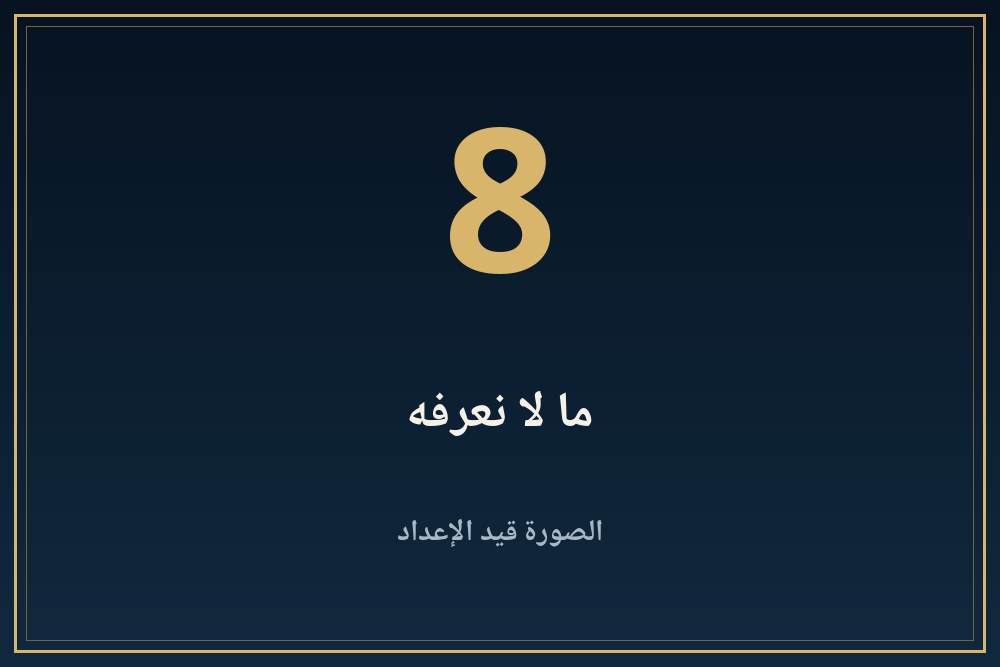
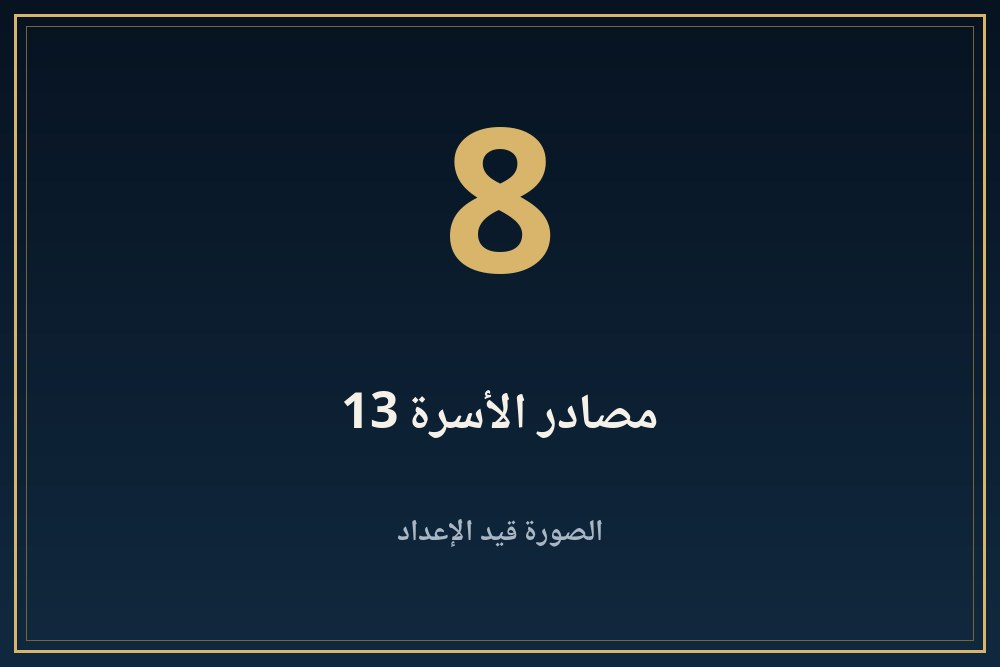
King card 52 folder 101: updated JSON

Changed region(s): [[0.341, 0.5697, 0.651, 0.6597]]

diff --git a/kings/101-swbk-htb-alawl-skhm-ra-khwtawy/index.html b/kings/101-swbk-htb-alawl-skhm-ra-khwtawy/index.html
@@ -320,11 +320,11 @@ html[dir=ltr] #panav.open,#pash[dir=ltr] #panav.open{border-right:0!important;bo
 .abt li{display:grid;grid-template-columns:62px 1fr;gap:10px;align-items:baseline;font-size:14px;line-height:1.85;color:#d6dee8}
 .abt li b{color:#d8b56b;font-size:13px;font-weight:700}
 @media(max-width:520px){.abt li{grid-template-columns:1fr;gap:0}.abt li b{margin-bottom:0}}</style><style id="back-ctl">.back-controls{z-index:80}.back-controls{position:fixed;bottom:18px;left:18px;z-index:30;display:flex;flex-direction:row;align-items:center;gap:8px;direction:ltr}.back-top{position:static;background:#d8b56b;color:#091725;border:1px solid rgba(240,215,157,.65);border-radius:50%;width:36px;height:36px;min-width:36px;padding:0;font-size:18px;line-height:1;cursor:pointer;box-shadow:0 5px 16px #0005;display:none;align-items:center;justify-content:center}.back-top.visible{display:flex}.back-top:hover{background:#f0d79d;transform:translateY(-1px)}@media(max-width:600px){.back-controls{bottom:12px;left:12px;gap:6px}.back-top{width:34px;height:34px;min-width:34px;font-size:17px}}.back-controls{display:flex;flex-direction:row;align-items:center;justify-content:center;gap:7px;direction:ltr}.back-top{width:32px;height:32px;min-width:32px;font-size:16px;background:#d8b56b;color:#091725;border:1px solid #f0d79d;box-shadow:0 4px 12px #0005}@media(max-width:600px){.back-controls{left:12px;bottom:12px;gap:6px}.back-top{width:31px;height:31px;min-width:31px;font-size:15px}}</style><style id="herodesk">@media(min-width:768px){header.hero{display:block!important}header.hero .hero-img{display:block!important;margin:0 auto 28px!important;max-width:460px!important;width:100%!important}header.hero .hero-img img{width:100%!important;height:auto!important;border-radius:18px}header.hero .hero-txt{margin-top:0!important}}</style><style id="urlwrap">.acc .body,.acc .body p,.acc .body li,.acc .body a,.acc .body ol,.acc .body ul{overflow-wrap:anywhere;word-break:break-word;min-width:0;max-width:100%}.acc .body a{display:inline;unicode-bidi:plaintext}</style></head><div class="pa-topline"></div><div id="pash"><div class="pa-nav"><a aria-label="بر عنخ الرئيسية" class="pa-brand" href="/"><span class="pa-mark"><span>𓂀</span></span><span class="pa-name">PER ANKH<small>بيت الحياة · HOUSE OF LIFE</small></span></a><nav aria-label="التنقل الرئيسي في الموقع" id="panav"><a href="/#home" data-ar="الرئيسية" data-en="Home">الرئيسية</a><a href="/#discover" data-ar="الأقسام الرئيسية" data-en="Main sections">الأقسام الرئيسية</a><a href="/#kings-details" data-ar="الملوك" data-en="Kings">الملوك</a><a href="/#religion-details" data-ar="الديانة" data-en="Religion">الديانة</a><a href="/#timeline-details" data-ar="العصور والأسرات" data-en="Eras &amp; dynasties">العصور والأسرات</a><a href="/#sites-details" data-ar="المواقع الأثرية" data-en="Archaeological sites">المواقع الأثرية</a><a href="/#library-details" data-ar="المكتبة" data-en="Library">المكتبة</a><a href="/#learning-details" data-ar="التعلم والاختبار" data-en="Learning &amp; quiz">التعلم والاختبار</a><a href="/#about" data-ar="المؤسس" data-en="Founder">المؤسس</a><a class="nav-extra" href="/#architecture-details" data-ar="العمارة والفنون" data-en="Architecture &amp; art">العمارة والفنون</a><a class="nav-extra" href="/#daily-life-details" data-ar="الحياة اليومية" data-en="Daily life">الحياة اليومية</a><a class="nav-extra" href="/#virtual-museum" data-ar="المتحف الافتراضي" data-en="Virtual museum">المتحف الافتراضي</a><a class="nav-extra" href="/#digital-lab" data-ar="معمل الآثار الرقمي" data-en="Digital archaeology lab">معمل الآثار الرقمي</a><a class="nav-extra" href="/#academy-details" data-ar="أكاديمية بر عنخ" data-en="Per Ankh academy">أكاديمية بر عنخ</a><a class="nav-extra" href="/#references-details" data-ar="المراجع والمصادر" data-en="References &amp; sources">المراجع والمصادر</a><a class="nav-extra" href="/#library-expanded" data-ar="المكتبة الأثرية" data-en="Archaeological library">المكتبة الأثرية</a><a class="nav-extra" href="/#interactive-lab" data-ar="مختبر الحضارة التفاعلي" data-en="Interactive lab">مختبر الحضارة التفاعلي</a><a class="nav-extra" href="/#atlas-explorer" data-ar="الأطلس الأثري" data-en="Archaeological atlas">الأطلس الأثري</a><a class="nav-extra" href="/#photo-gallery" data-ar="معرض الصور الأثري" data-en="Photo gallery">معرض الصور الأثري</a><a class="nav-extra" href="/#community-hub" data-ar="مجتمع بر عنخ" data-en="Community">مجتمع بر عنخ</a></nav><div class="pa-act"><button class="pa-lang" id="paLang" type="button">EN</button><a class="pa-acc" id="paAcc" href="/?account=1" data-ar="حسابي" data-en="Account" aria-label="فتح حساب المستخدم">حسابي</a><button class="pa-menu" id="paMenu" type="button" aria-controls="panav" aria-expanded="false" aria-haspopup="true" aria-label="فتح قائمة أقسام الموقع">☰</button></div></div></div><main class="wrap"><nav class="pa-crumb" id="paCrumb" aria-label="مسار الصفحة"><a href="/" data-ar="الرئيسية" data-en="Home">الرئيسية</a><i aria-hidden="true">‹</i><a href="/#kings-details" data-ar="ملوك مصر القديمة" data-en="Ancient Egyptian Kings">ملوك مصر القديمة</a><i aria-hidden="true">‹</i><span aria-current="page" data-ar="سوبك حتب الأول (سخم رع خوتاوي)" data-en="Sobekhotep I">سوبك حتب الأول (سخم رع خوتاوي)</span></nav><p class="pa-ennote" id="paNote" hidden>The Sobekhotep I article below is in Arabic. An English translation has not been prepared yet.</p><article><header class="hero"><i class="deco l"></i><i class="deco r"></i><div class="hero-img"><img src="banners/cover_b.jpg?v=3" alt="سوبك حتب الأول (سخم رع خوتاوي)" width="900" height="1200" fetchpriority="high"></div>
-<div class="hero-txt"><div class="eyebrow" aria-hidden="true"></div><h1>سوبك حتب الأول (سخم رع خوتاوي)</h1><p class="sub">من أوائل ملوك الأسرة الثالثة عشرة؛ ترتبط به شواهد من اللاهون ومدامود وسمنة وكومة</p></div></header><div class="tools"><button id="all" type="button"><svg viewBox="0 0 24 24" width="24" height="24" fill="none" stroke="currentColor" stroke-width="2.4" stroke-linecap="round" stroke-linejoin="round" aria-hidden="true"><path d="M6 6l6 6 6-6M6 13l6 6 6-6"/></svg><span>فتح الكل</span></button><button id="none" type="button"><svg viewBox="0 0 24 24" width="24" height="24" fill="none" stroke="currentColor" stroke-width="2" stroke-linejoin="round" stroke-linecap="round" aria-hidden="true"><rect x="3" y="4" width="18" height="16" rx="2"/><circle cx="9" cy="9.5" r="1.6" fill="currentColor"/><path d="M3.5 18l5.5-5.5 4 4 3-3 4.5 4.5"/></svg><span>إغلاق الكل</span></button></div><div class="legend" role="note"><b>دليل العلامات في الصفحة</b>
+<div class="hero-txt"><div class="eyebrow" aria-hidden="true"></div><h1>سوبك حتب الأول (سخم رع خوتاوي)</h1><p class="sub">أمنمحات سبك حتب: بداية غامضة بعد الملكة</p></div></header><div class="tools"><button id="all" type="button"><svg viewBox="0 0 24 24" width="24" height="24" fill="none" stroke="currentColor" stroke-width="2.4" stroke-linecap="round" stroke-linejoin="round" aria-hidden="true"><path d="M6 6l6 6 6-6M6 13l6 6 6-6"/></svg><span>فتح الكل</span></button><button id="none" type="button"><svg viewBox="0 0 24 24" width="24" height="24" fill="none" stroke="currentColor" stroke-width="2" stroke-linejoin="round" stroke-linecap="round" aria-hidden="true"><rect x="3" y="4" width="18" height="16" rx="2"/><circle cx="9" cy="9.5" r="1.6" fill="currentColor"/><path d="M3.5 18l5.5-5.5 4 4 3-3 4.5 4.5"/></svg><span>إغلاق الكل</span></button></div><div class="legend" role="note"><b>دليل العلامات في الصفحة</b>
 <div class="row"><span class="bdg v">موثّق</span><span>مذكور في مصدر مرقّم يمكن فتحه من قسم المراجع.</span></div>
 <div class="row"><span class="bdg d">محل خلاف</span><span>الصفحة نفسها تذكر أن الباحثين أو المصادر مختلفون فيه.</span></div>
 <div class="row"><span class="bdg u">لم يُتحقق منه</span><span>الصفحة تذكر أنه من مصدر واحد ولم يُتحقق منه في مصدر ثانٍ.</span></div></div>
-<div class="band" aria-hidden="true"></div><details class="acc k1" id="s1"><summary><img class="bnr" src="banners/b01.jpg?v=1" alt="" width="1000" height="667"><span class="n">1</span><span class="t">من هو؟</span><span class="ch"></span></summary><div class="body"><button class="lbtn" type="button" disabled aria-disabled="true" style="opacity:.55;cursor:default"><svg viewBox="0 0 24 24" fill="currentColor" aria-hidden="true"><path d="M7 4.5v15a1 1 0 001.5.86l12-7.5a1 1 0 000-1.72l-12-7.5A1 1 0 007 4.5z"/></svg><span>التعليق الصوتي قريبًا</span></button><p><span class="bdg v">موثّق</span> يسميه سليم حسن (ج4 ص27) «سخم رع خوتاوي-أمنمحات سبك حتب»، ويقول (ص23، 27) إن آخر ملوك الأسرة الثانية عشرة هي الملكة «سبك نفرو رع» وإن نسل الأسرة انقطع بانتهاء حكمها.<sup><a href="#r1">[1]</a></sup></p></div></details><details class="acc k2" id="s2"><summary><img class="bnr" src="banners/b02.jpg?v=1" alt="" loading="lazy" width="1000" height="667"><span class="n">2</span><span class="t">هل هو أول ملوك الأسرة؟</span><span class="ch"></span></summary><div class="body"><button class="lbtn" type="button" disabled aria-disabled="true" style="opacity:.55;cursor:default"><svg viewBox="0 0 24 24" fill="currentColor" aria-hidden="true"><path d="M7 4.5v15a1 1 0 001.5.86l12-7.5a1 1 0 000-1.72l-12-7.5A1 1 0 007 4.5z"/></svg><span>التعليق الصوتي قريبًا</span></button><p><span class="bdg d">محل خلاف</span> يقول سليم (ص27 هامش 1) إن الرأي السائد بين المؤرخين بقي أن «رع خوتاوي وجاف» هو أول ملوك الأسرة الثالثة عشرة، إلى أن كشفت حفائر المدامود أحجارا باسم أمنمحات سبك حتب، فأعاد الأستاذ ويل بحث ترتيب الأسرة (مجلة 1929). ويعامل سليم الملكين بقسمين مستقلين.<sup><a href="#r1">[1]</a></sup></p></div></details><details class="acc k3" id="s3"><summary><img class="bnr" src="banners/b03.jpg?v=1" alt="" loading="lazy" width="1000" height="667"><span class="n">3</span><span class="t">صلته بالملكة سبك نفرو رع</span><span class="ch"></span></summary><div class="body"><button class="lbtn" type="button" disabled aria-disabled="true" style="opacity:.55;cursor:default"><svg viewBox="0 0 24 24" fill="currentColor" aria-hidden="true"><path d="M7 4.5v15a1 1 0 001.5.86l12-7.5a1 1 0 000-1.72l-12-7.5A1 1 0 007 4.5z"/></svg><span>التعليق الصوتي قريبًا</span></button><p><span class="bdg d">محل خلاف</span> يقول سليم (ص27) إن بعض المؤرخين يظنون أنه تزوج الملكة فصار ملكا شرعيا، ثم يقول «ليس لدينا ما يدعم ذلك الزعم»، ويرى أنه «من الجائز» أنه اغتصب الملك، وأنه انتحل اسم «أمنمحات سبك حتب» تيمنا بملوك الأسرة الثانية عشرة ليخفي اغتصابه. فهذا تأويل سليم وليس نصا قديما.<sup><a href="#r1">[1]</a></sup></p></div></details><details class="acc k4" id="s4"><summary><img class="bnr" src="banners/b04.jpg?v=1" alt="" loading="lazy" width="1000" height="667"><span class="n">4</span><span class="t">مدة الحكم وسعة النفوذ</span><span class="ch"></span></summary><div class="body"><button class="lbtn" type="button" disabled aria-disabled="true" style="opacity:.55;cursor:default"><svg viewBox="0 0 24 24" fill="currentColor" aria-hidden="true"><path d="M7 4.5v15a1 1 0 001.5.86l12-7.5a1 1 0 000-1.72l-12-7.5A1 1 0 007 4.5z"/></svg><span>التعليق الصوتي قريبًا</span></button><p><span class="bdg v">موثّق</span> يقول سليم (ص27) إنه حكم «ما لا يقل عن أربع سنوات» وخلف آثارا عدة في طول البلاد وعرضها، مما يدل عنده على أنه كان مسيطرا على القطر كله.<sup><a href="#r1">[1]</a></sup></p></div></details><details class="acc k1" id="s5"><summary><img class="bnr" src="banners/b05.jpg?v=1" alt="" loading="lazy" width="1000" height="667"><span class="n">5</span><span class="t">الحدود الجنوبية</span><span class="ch"></span></summary><div class="body"><button class="lbtn" type="button" disabled aria-disabled="true" style="opacity:.55;cursor:default"><svg viewBox="0 0 24 24" fill="currentColor" aria-hidden="true"><path d="M7 4.5v15a1 1 0 001.5.86l12-7.5a1 1 0 000-1.72l-12-7.5A1 1 0 007 4.5z"/></svg><span>التعليق الصوتي قريبًا</span></button><p><span class="bdg v">موثّق</span> ينقل سليم (ص28) عن جرفث أنه كان يسيطر على الدولة التي أقامها سنوسرت الثالث من الدلتا حتى قلعة سمنة. ويقول إنه عثر له على تمثال في سمنة وآخر في كرمة، وإنه استمر في تدوين مقاييس النيل في السنوات الأربع الأولى من حكمه في قمة وسمنة.<sup><a href="#r1">[1]</a></sup></p></div></details><details class="acc k2" id="s6"><summary><img class="bnr" src="banners/b06.jpg?v=1" alt="" loading="lazy" width="1000" height="667"><span class="n">6</span><span class="t">آثاره</span><span class="ch"></span></summary><div class="body"><button class="lbtn" type="button" disabled aria-disabled="true" style="opacity:.55;cursor:default"><svg viewBox="0 0 24 24" fill="currentColor" aria-hidden="true"><path d="M7 4.5v15a1 1 0 001.5.86l12-7.5a1 1 0 000-1.72l-12-7.5A1 1 0 007 4.5z"/></svg><span>التعليق الصوتي قريبًا</span></button><p><span class="bdg v">موثّق</span> يذكر سليم (ص28) حجرا منقوشا باسمه في الدير البحري يظن أنه من عتب باب، وأجزاء مقاصير في المدامود، وجزءا من بوابة في تل بسطة، وأسطوانات في المتحف البريطاني واللوفر. ويقول إن بردية في كاهون (قرب الفيوم) دونت فيها قائمة أسرة كبيرة وذكرت السنة الأولى والثانية من حكمه، وأشارت إلى تعداد سابق في السنة الأربعين من حكم أمنمحات الثالث.<sup><a href="#r1">[1]</a></sup></p></div></details><details class="acc k3" id="s7"><summary><img class="bnr" src="banners/b07.jpg?v=1" alt="" loading="lazy" width="1000" height="667"><span class="n">7</span><span class="t">بوادر الانحلال</span><span class="ch"></span></summary><div class="body"><button class="lbtn" type="button" disabled aria-disabled="true" style="opacity:.55;cursor:default"><svg viewBox="0 0 24 24" fill="currentColor" aria-hidden="true"><path d="M7 4.5v15a1 1 0 001.5.86l12-7.5a1 1 0 000-1.72l-12-7.5A1 1 0 007 4.5z"/></svg><span>التعليق الصوتي قريبًا</span></button><p><span class="bdg d">محل خلاف</span> يقول سليم (ص30) إن بوادر الانحلال ظهرت في نهاية حكمه وفي حكم خلفائه، فقد انقطع تدوين مقاييس النيل بعد السنة الرابعة من حكمه وانقطعت قوائم التعداد في كاهون في عهد خلفه، وتوالت الملوك بسرعة. هذه قراءة سليم لما بقي من الآثار.<sup><a href="#r1">[1]</a></sup></p></div></details><details class="acc k4" id="s8"><summary><img class="bnr" src="banners/b08.jpg?v=1" alt="" loading="lazy" width="1000" height="667"><span class="n">8</span><span class="t">ما لا نعرفه</span><span class="ch"></span></summary><div class="body"><button class="lbtn" type="button" disabled aria-disabled="true" style="opacity:.55;cursor:default"><svg viewBox="0 0 24 24" fill="currentColor" aria-hidden="true"><path d="M7 4.5v15a1 1 0 001.5.86l12-7.5a1 1 0 000-1.72l-12-7.5A1 1 0 007 4.5z"/></svg><span>التعليق الصوتي قريبًا</span></button><p><span class="bdg u">لم يُتحقق منه</span> لا نقرأ في مقتطفنا اسم أبيه أو زوجته أو قبره، ولا نعرف هل كان للملكة سبك نفرو رع صلة به. ولا نعرف سنة جلوسه، وسليم نفسه يشير إلى أن ترتيب ملوك الأسرة بعد ملكين أو ثلاثة «حدس وتخمين» (ص23، 30). جدول المقابلة: بطاقات الموقع تعد «سوبك حتب» الثاني هو خع عنخ رع والخامس هو خع حتب رع. وسليم حسن يسميهما «الخامس» و«السادس» على الترتيب، ويسمي خع نفر رع «الرابع» وسخم رع سواد تاوي «الثالث» مثل القائمة. ونعتمد ترقيم بطاقات الموقع مع ذكر ترقيم سليم عند كل ملك.</p></div></details><details class="acc k4" id="refs"><summary><img class="bnr" src="banners/b09.jpg?v=1" alt="" loading="lazy" width="1000" height="667"><span class="n">9</span><span class="t">المراجع</span><span class="ch"></span></summary><div class="body"><button class="lbtn" type="button" disabled aria-disabled="true" style="opacity:.55;cursor:default"><svg viewBox="0 0 24 24" fill="currentColor" aria-hidden="true"><path d="M7 4.5v15a1 1 0 001.5.86l12-7.5a1 1 0 000-1.72l-12-7.5A1 1 0 007 4.5z"/></svg><span>التعليق الصوتي قريبًا</span></button><p><b>مصادر فتحتُ صفحاتها وقرأتها:</b></p><ol><li id="r1" dir="auto">سليم حسن، موسوعة مصر القديمة، ج4 (طبعة هنداوي 2019)، أرقام صفحات PDF</li></ol><div class="flag"><b>تنبيه:</b> عدد المصادر المصرية المفتوحة لهذه الصفحة واحد فقط. لا نضيف تفاصيل لم تثبت في مصدر فتحناه وقرأنا نصه، وحيث يختلف المصدران ننسب كل رأي لصاحبه.</div></div></details></article><aside class="abt" aria-label="عن هذه الصفحة"><h3>عن هذه الصفحة</h3><ul><li><b>المحتوى</b><span>جزء من موسوعة بر عنخ التعليمية. التواريخ والتفسيرات وفق المراجع المتاحة، وقد تختلف التفاصيل بين الدراسات.</span></li><li><b>الصور</b><span>صور هذه الصفحة أماكن حجز مؤقتة إلى أن تُضاف الصور الفنية.</span></li><li><b>الصوت</b><span>التعليق الصوتي قيد الإعداد.</span></li></ul></aside><a class="back" href="/kings/">← تصفح المزيد</a><a class="back" href="/">العودة إلى الرئيسية</a><dialog id="lb"><img alt=""><p></p><button type="button">إغلاق</button></dialog>
+<div class="band" aria-hidden="true"></div><details class="acc k1" id="s1"><summary><img class="bnr" src="banners/b01.jpg?v=1" alt="" width="1000" height="667"><span class="n">1</span><span class="t">من هو؟</span><span class="ch"></span></summary><div class="body"><button class="lbtn" type="button" disabled aria-disabled="true" style="opacity:.55;cursor:default"><svg viewBox="0 0 24 24" fill="currentColor" aria-hidden="true"><path d="M7 4.5v15a1 1 0 001.5.86l12-7.5a1 1 0 000-1.72l-12-7.5A1 1 0 007 4.5z"/></svg><span>التعليق الصوتي قريبًا</span></button><p><span class="bdg v">موثّق</span> يسميه سليم حسن (ج4 ص27) «سخم رع خوتاوي-أمنمحات سبك حتب»، ويقول (ص23، 27) إن آخر ملوك الأسرة الثانية عشرة هي الملكة «سبك نفرو رع» وإن نسل الأسرة انقطع بانتهاء حكمها.<sup><a href="#r1">[1]</a></sup></p></div></details><details class="acc k2" id="s2"><summary><img class="bnr" src="banners/b02.jpg?v=1" alt="" loading="lazy" width="1000" height="667"><span class="n">2</span><span class="t">هل هو أول ملوك الأسرة؟</span><span class="ch"></span></summary><div class="body"><button class="lbtn" type="button" disabled aria-disabled="true" style="opacity:.55;cursor:default"><svg viewBox="0 0 24 24" fill="currentColor" aria-hidden="true"><path d="M7 4.5v15a1 1 0 001.5.86l12-7.5a1 1 0 000-1.72l-12-7.5A1 1 0 007 4.5z"/></svg><span>التعليق الصوتي قريبًا</span></button><p><span class="bdg d">محل خلاف</span> يقول سليم (ص27 هامش 1) إن الرأي السائد بين المؤرخين بقي أن «رع خوتاوي وجاف» هو أول ملوك الأسرة الثالثة عشرة، إلى أن كشفت حفائر المدامود أحجارا باسم أمنمحات سبك حتب، فأعاد الأستاذ ويل بحث ترتيب الأسرة (مجلة 1929). ويعامل سليم الملكين بقسمين مستقلين.<sup><a href="#r1">[1]</a></sup></p></div></details><details class="acc k3" id="s3"><summary><img class="bnr" src="banners/b03.jpg?v=1" alt="" loading="lazy" width="1000" height="667"><span class="n">3</span><span class="t">صلته بالملكة سبك نفرو رع</span><span class="ch"></span></summary><div class="body"><button class="lbtn" type="button" disabled aria-disabled="true" style="opacity:.55;cursor:default"><svg viewBox="0 0 24 24" fill="currentColor" aria-hidden="true"><path d="M7 4.5v15a1 1 0 001.5.86l12-7.5a1 1 0 000-1.72l-12-7.5A1 1 0 007 4.5z"/></svg><span>التعليق الصوتي قريبًا</span></button><p><span class="bdg d">محل خلاف</span> يقول سليم (ص27) إن بعض المؤرخين يظنون أنه تزوج الملكة فصار ملكا شرعيا، ثم يقول «ليس لدينا ما يدعم ذلك الزعم»، ويرى أنه «من الجائز» أنه اغتصب الملك، وأنه انتحل اسم «أمنمحات سبك حتب» تيمنا بملوك الأسرة الثانية عشرة ليخفي اغتصابه. فهذا تأويل سليم وليس نصا قديما.<sup><a href="#r1">[1]</a></sup></p></div></details><details class="acc k4" id="s4"><summary><img class="bnr" src="banners/b04.jpg?v=1" alt="" loading="lazy" width="1000" height="667"><span class="n">4</span><span class="t">مدة الحكم وسعة النفوذ</span><span class="ch"></span></summary><div class="body"><button class="lbtn" type="button" disabled aria-disabled="true" style="opacity:.55;cursor:default"><svg viewBox="0 0 24 24" fill="currentColor" aria-hidden="true"><path d="M7 4.5v15a1 1 0 001.5.86l12-7.5a1 1 0 000-1.72l-12-7.5A1 1 0 007 4.5z"/></svg><span>التعليق الصوتي قريبًا</span></button><p><span class="bdg v">موثّق</span> يقول سليم (ص27) إنه حكم «ما لا يقل عن أربع سنوات» وخلف آثارا عدة في طول البلاد وعرضها، مما يدل عنده على أنه كان مسيطرا على القطر كله.<sup><a href="#r1">[1]</a></sup></p></div></details><details class="acc k1" id="s5"><summary><img class="bnr" src="banners/b05.jpg?v=1" alt="" loading="lazy" width="1000" height="667"><span class="n">5</span><span class="t">الحدود الجنوبية</span><span class="ch"></span></summary><div class="body"><button class="lbtn" type="button" disabled aria-disabled="true" style="opacity:.55;cursor:default"><svg viewBox="0 0 24 24" fill="currentColor" aria-hidden="true"><path d="M7 4.5v15a1 1 0 001.5.86l12-7.5a1 1 0 000-1.72l-12-7.5A1 1 0 007 4.5z"/></svg><span>التعليق الصوتي قريبًا</span></button><p><span class="bdg v">موثّق</span> ينقل سليم (ص28) عن جرفث أنه كان يسيطر على الدولة التي أقامها سنوسرت الثالث من الدلتا حتى قلعة سمنة. ويقول إنه عثر له على تمثال في سمنة وآخر في كرمة، وإنه استمر في تدوين مقاييس النيل في السنوات الأربع الأولى من حكمه في قمة وسمنة.<sup><a href="#r1">[1]</a></sup></p></div></details><details class="acc k2" id="s6"><summary><img class="bnr" src="banners/b06.jpg?v=1" alt="" loading="lazy" width="1000" height="667"><span class="n">6</span><span class="t">آثاره</span><span class="ch"></span></summary><div class="body"><button class="lbtn" type="button" disabled aria-disabled="true" style="opacity:.55;cursor:default"><svg viewBox="0 0 24 24" fill="currentColor" aria-hidden="true"><path d="M7 4.5v15a1 1 0 001.5.86l12-7.5a1 1 0 000-1.72l-12-7.5A1 1 0 007 4.5z"/></svg><span>التعليق الصوتي قريبًا</span></button><p><span class="bdg v">موثّق</span> يذكر سليم (ص28) حجرا منقوشا باسمه في الدير البحري يظن أنه من عتب باب، وأجزاء مقاصير في المدامود، وجزءا من بوابة في تل بسطة، وأسطوانات في المتحف البريطاني واللوفر. ويقول إن بردية في كاهون (قرب الفيوم) دونت فيها قائمة أسرة كبيرة وذكرت السنة الأولى والثانية من حكمه، وأشارت إلى تعداد سابق في السنة الأربعين من حكم أمنمحات الثالث.<sup><a href="#r1">[1]</a></sup></p></div></details><details class="acc k3" id="s7"><summary><img class="bnr" src="banners/b07.jpg?v=1" alt="" loading="lazy" width="1000" height="667"><span class="n">7</span><span class="t">بوادر الانحلال</span><span class="ch"></span></summary><div class="body"><button class="lbtn" type="button" disabled aria-disabled="true" style="opacity:.55;cursor:default"><svg viewBox="0 0 24 24" fill="currentColor" aria-hidden="true"><path d="M7 4.5v15a1 1 0 001.5.86l12-7.5a1 1 0 000-1.72l-12-7.5A1 1 0 007 4.5z"/></svg><span>التعليق الصوتي قريبًا</span></button><p><span class="bdg d">محل خلاف</span> يقول سليم (ص30) إن بوادر الانحلال ظهرت في نهاية حكمه وفي حكم خلفائه، فقد انقطع تدوين مقاييس النيل بعد السنة الرابعة من حكمه وانقطعت قوائم التعداد في كاهون في عهد خلفه، وتوالت الملوك بسرعة. هذه قراءة سليم لما بقي من الآثار.<sup><a href="#r1">[1]</a></sup></p></div></details><details class="acc k4" id="s8"><summary><img class="bnr" src="banners/b08.jpg?v=1" alt="" loading="lazy" width="1000" height="667"><span class="n">8</span><span class="t">مصادر الأسرة 13</span><span class="ch"></span></summary><div class="body"><button class="lbtn" type="button" disabled aria-disabled="true" style="opacity:.55;cursor:default"><svg viewBox="0 0 24 24" fill="currentColor" aria-hidden="true"><path d="M7 4.5v15a1 1 0 001.5.86l12-7.5a1 1 0 000-1.72l-12-7.5A1 1 0 007 4.5z"/></svg><span>التعليق الصوتي قريبًا</span></button><p><span class="bdg d">محل خلاف</span> يقول سليم (ص23-25) إن مصادر هذا العصر نادرة وآثاره ضئيلة، وإن أهم المصادر ورقة تورين وصلت ممزقة، «من أجل ذلك أصبح من العسير وضع كثير من ملوكها في أماكنهم الأصلية إلا عن طريق الحدس والتخمين». وينقل عن مانيتون أن ملوك الأسرة 13 نحو ستين فرعونا اتخذوا طيبة عاصمة وحكموا نحو ثلاثة وخمسين وأربعمائة عام، وأن ملوك الأسرة 14 ستة وسبعون اتخذوا «سخا» مقرا. ويقول سليم إن هذا التقدير الزمني «مبالغ فيه إلى درجة لا يقبلها العقل والمنطق». ويقول إن قائمة الكرنك عددت خمسة وثلاثين فرعونا بقي منها خمسة وعشرون اسما، وإن قائمتي سقارة والعرابة أغفلتا ملوك هذا العصر، وإن ورقة تورين حفظت تواريخ نحو ثلاثين فرعونا تدل على قصر مدة حكم كل منهم وتلاحقهم، وإن ملوك الأسرة 14 وبعض أواخر الأسرة 13 حكموا في عصر واحد مع الهكسوس.<sup><a href="#r1">[1]</a></sup></p></div></details><details class="acc k1" id="s9"><summary><img class="bnr" src="banners/b09.jpg?v=1" alt="" loading="lazy" width="1000" height="667"><span class="n">9</span><span class="t">ما لا نعرفه</span><span class="ch"></span></summary><div class="body"><button class="lbtn" type="button" disabled aria-disabled="true" style="opacity:.55;cursor:default"><svg viewBox="0 0 24 24" fill="currentColor" aria-hidden="true"><path d="M7 4.5v15a1 1 0 001.5.86l12-7.5a1 1 0 000-1.72l-12-7.5A1 1 0 007 4.5z"/></svg><span>التعليق الصوتي قريبًا</span></button><p><span class="bdg u">لم يُتحقق منه</span> لا نقرأ في مقتطفنا اسم أبيه أو زوجته أو قبره، ولا نعرف هل كان للملكة سبك نفرو رع صلة به. ولا نعرف سنة جلوسه، وسليم نفسه يشير إلى أن ترتيب ملوك الأسرة بعد ملكين أو ثلاثة «حدس وتخمين» (ص23، 30). جدول المقابلة: بطاقات الموقع تعد «سوبك حتب» الثاني هو خع عنخ رع والخامس هو خع حتب رع. وسليم حسن يسميهما «الخامس» و«السادس» على الترتيب، ويسمي خع نفر رع «الرابع» وسخم رع سواد تاوي «الثالث» مثل القائمة. ونعتمد ترقيم بطاقات الموقع مع ذكر ترقيم سليم عند كل ملك.</p></div></details><details class="acc k4" id="refs"><summary><img class="bnr" src="banners/b10.jpg?v=1" alt="" loading="lazy" width="1000" height="667"><span class="n">10</span><span class="t">المراجع</span><span class="ch"></span></summary><div class="body"><button class="lbtn" type="button" disabled aria-disabled="true" style="opacity:.55;cursor:default"><svg viewBox="0 0 24 24" fill="currentColor" aria-hidden="true"><path d="M7 4.5v15a1 1 0 001.5.86l12-7.5a1 1 0 000-1.72l-12-7.5A1 1 0 007 4.5z"/></svg><span>التعليق الصوتي قريبًا</span></button><p><b>مصادر فتحتُ صفحاتها وقرأتها:</b></p><ol><li id="r1" dir="auto">سليم حسن، موسوعة مصر القديمة، ج4 (طبعة هنداوي 2019)، أرقام صفحات PDF</li></ol><div class="flag"><b>تنبيه:</b> عدد المصادر المصرية المفتوحة لهذه الصفحة واحد فقط. لا نضيف تفاصيل لم تثبت في مصدر فتحناه وقرأنا نصه، وحيث يختلف المصدران ننسب كل رأي لصاحبه.</div></div></details></article><aside class="abt" aria-label="عن هذه الصفحة"><h3>عن هذه الصفحة</h3><ul><li><b>المحتوى</b><span>جزء من موسوعة بر عنخ التعليمية. التواريخ والتفسيرات وفق المراجع المتاحة، وقد تختلف التفاصيل بين الدراسات.</span></li><li><b>الصور</b><span>صور هذه الصفحة أماكن حجز مؤقتة إلى أن تُضاف الصور الفنية.</span></li><li><b>الصوت</b><span>التعليق الصوتي قيد الإعداد.</span></li></ul></aside><a class="back" href="/kings/">← تصفح المزيد</a><a class="back" href="/">العودة إلى الرئيسية</a><dialog id="lb"><img alt=""><p></p><button type="button">إغلاق</button></dialog>
 <script>(function(){var A=function(){return document.querySelectorAll("details.acc")};
 document.getElementById("all").onclick=function(){A().forEach(function(d){d.open=true})};
 document.getElementById("none").onclick=function(){A().forEach(function(d){d.open=false})};
@@ -332,7 +332,7 @@ function go(h){var e=h&&document.getElementById(h.slice(1));if(!e)return;var d=e
 document.addEventListener("click",function(e){var a=e.target.closest&&e.target.closest('a[href^="#"]');if(a){go(a.getAttribute("href"))}});
 if(location.hash)go(location.hash);
 var d=document.getElementById("lb");if(!d||!d.showModal)return;var im=d.querySelector("img"),p=d.querySelector("p");document.addEventListener("click",function(e){var t=e.target;if(t.tagName=="IMG"&&t.closest(".fig")){im.src=t.src;im.alt=t.alt;p.textContent=t.closest("figure").querySelector("figcaption").innerText;d.showModal()}else if(t==d||t.tagName=="BUTTON"&&d.contains(t)){d.close()}})})();</script><div class="pbar" id="pbar"></div><div class="pl" id="pl" role="region" aria-label="مشغّل الاستماع"><div class="in"><button class="pp" id="pp" type="button" aria-label="تشغيل"><svg viewBox="0 0 24 24" fill="currentColor" aria-hidden="true"><path d="M7 4.5v15a1 1 0 001.5.86l12-7.5a1 1 0 000-1.72l-12-7.5A1 1 0 007 4.5z"/></svg></button><div class="mid"><div class="ttl"><span id="tt">استماع</span> <i>صوت اصطناعي</i></div><input id="sk" type="range" min="0" max="1000" value="0" aria-label="موضع التشغيل"><div class="tm"><span id="cur">0:00</span><span id="dur">0:00</span></div></div><div class="ex"><button id="bk" type="button" aria-label="رجوع 10 ثوانٍ">−10</button><button id="fw" type="button" aria-label="تقدم 10 ثوانٍ">+10</button><button id="sp" class="sp" type="button" aria-label="سرعة التشغيل">1×</button><button id="cl" type="button" aria-label="إغلاق المشغّل">✕</button></div><p class="err" id="er" role="alert" hidden>تعذر تحميل الملف الصوتي. حاول لاحقًا.</p></div><div aria-live="polite" id="st" style="position:absolute;left:-9999px"></div><audio id="au" preload="none"></audio></div></main><script>(function(){
-var S={"s1": ["من هو؟", 1], "s2": ["هل هو أول ملوك الأسرة؟", 1], "s3": ["صلته بالملكة سبك نفرو رع", 1], "s4": ["مدة الحكم وسعة النفوذ", 1], "s5": ["الحدود الجنوبية", 1], "s6": ["آثاره", 1], "s7": ["بوادر الانحلال", 1], "s8": ["ما لا نعرفه", 1], "refs": ["المراجع", 1]},$=function(i){return document.getElementById(i)},au=$("au"),pl=$("pl"),pp=$("pp"),sk=$("sk"),P="<svg viewBox=\"0 0 24 24\" fill=\"currentColor\" aria-hidden=\"true\"><path d=\"M7 4.5v15a1 1 0 001.5.86l12-7.5a1 1 0 000-1.72l-12-7.5A1 1 0 007 4.5z\"/></svg>",Q="<svg viewBox=\"0 0 24 24\" fill=\"currentColor\" aria-hidden=\"true\"><rect x=\"5.5\" y=\"4\" width=\"4.5\" height=\"16\" rx=\"1.2\"/><rect x=\"14\" y=\"4\" width=\"4.5\" height=\"16\" rx=\"1.2\"/></svg>",cur=null,part=1,seeking=false;
+var S={"s1": ["من هو؟", 1], "s2": ["هل هو أول ملوك الأسرة؟", 1], "s3": ["صلته بالملكة سبك نفرو رع", 1], "s4": ["مدة الحكم وسعة النفوذ", 1], "s5": ["الحدود الجنوبية", 1], "s6": ["آثاره", 1], "s7": ["بوادر الانحلال", 1], "s8": ["مصادر الأسرة 13", 1], "s9": ["ما لا نعرفه", 1], "refs": ["المراجع", 1]},$=function(i){return document.getElementById(i)},au=$("au"),pl=$("pl"),pp=$("pp"),sk=$("sk"),P="<svg viewBox=\"0 0 24 24\" fill=\"currentColor\" aria-hidden=\"true\"><path d=\"M7 4.5v15a1 1 0 001.5.86l12-7.5a1 1 0 000-1.72l-12-7.5A1 1 0 007 4.5z\"/></svg>",Q="<svg viewBox=\"0 0 24 24\" fill=\"currentColor\" aria-hidden=\"true\"><rect x=\"5.5\" y=\"4\" width=\"4.5\" height=\"16\" rx=\"1.2\"/><rect x=\"14\" y=\"4\" width=\"4.5\" height=\"16\" rx=\"1.2\"/></svg>",cur=null,part=1,seeking=false;
 function fmt(t){if(!isFinite(t))return"0:00";var m=Math.floor(t/60),s=Math.floor(t%60);return m+":"+(s<10?"0":"")+s}
 function btns(){document.querySelectorAll(".lbtn").forEach(function(b){var on=b.dataset.s===cur&&!au.paused;b.classList.toggle("on",on);b.querySelector("span").textContent=on?"إيقاف مؤقت":(b.dataset.s===cur&&au.currentTime>1?"أكمل الاستماع":"استمع لهذا القسم");b.querySelector("svg").outerHTML=on?Q:P})}
 function ui(){var pa=au.paused;pp.innerHTML=pa?P:Q;pp.setAttribute("aria-label",pa?"تشغيل":"إيقاف مؤقت");btns()}
